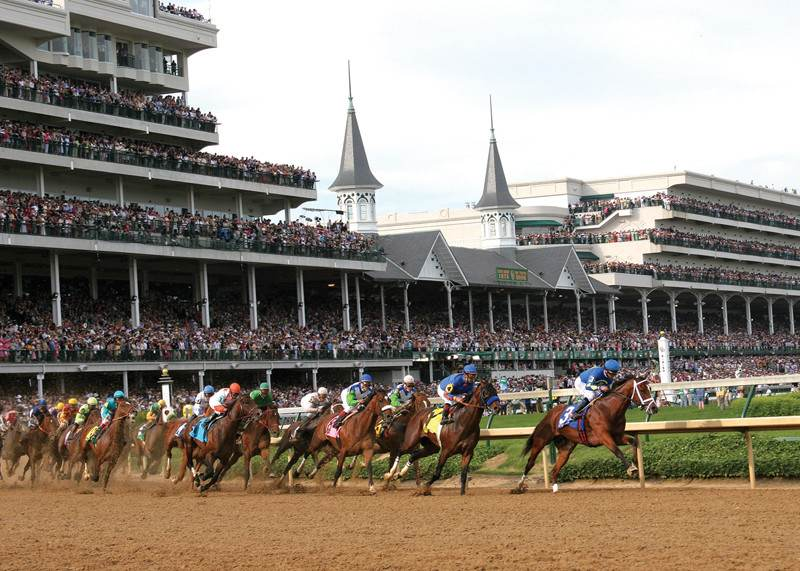
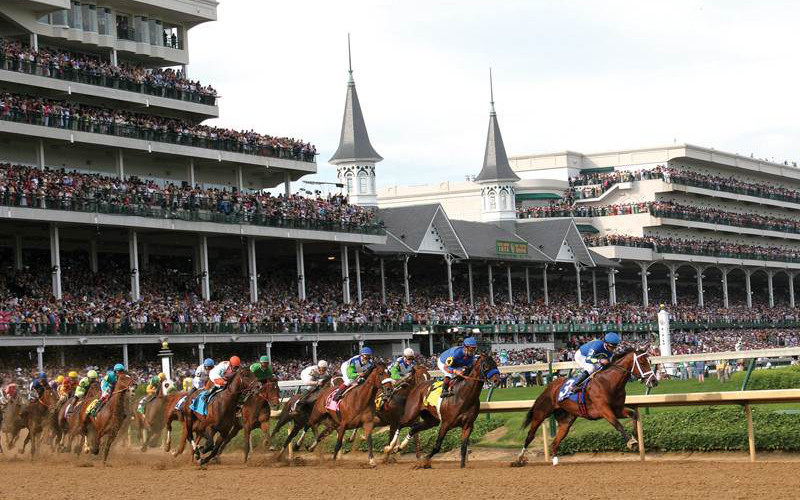
Image carousal update
Updated the info tab to have an image carousel.

diff --git a/trackgeo/index.html b/trackgeo/index.html
@@ -97,8 +97,9 @@
             </div>
             <div id="collapseTrackBias" class="panel-collapse collapse">
               <div class="panel-body">
-                <p><em>Dirt Bias:</em> The dirt track that tends to favor front-runners and speed horses, especially in 
-                  sprints. The inside posts can be advantageous in route races, but a strong outside runner with early speed can overcome this bias.
+                <p><em>Dirt Bias:</em> The dirt track that tends to favor front-runners and speed horses, especially in
+                  sprints. The inside posts can be advantageous in route races, but a strong outside runner with early
+                  speed can overcome this bias.
                 </p>
               </div>
             </div>
@@ -229,8 +230,37 @@
           Secretariat and Man o' War to modern-day heroes, the track has seen some of the most dramatic and
           unforgettable moments in horse racing. It's a must-see for anyone with even a passing interest in the sport.
         </p>
-        <img src="twinspires_b.jpg" alt="twin_spires">
-        <br><p></p>
+        <br>
+        <div id="myCarousel" class="carousel slide" data-ride="carousel" data-interval="false">
+          <!-- Indicators -->
+          <ol class="carousel-indicators">
+            <li data-target="#myCarousel" data-slide-to="0" class="active"></li>
+            <li data-target="#myCarousel" data-slide-to="1"></li>
+          </ol>
+
+          <!-- Wrapper for slides -->
+          <div class="carousel-inner">
+            <div class="item active">
+              <img src="ucdd-wp.jpeg" alt="Los Angeles" style="width:100%;">
+            </div>
+
+            <div class="item">
+              <img src="twinspires_b.jpg" alt="Chicago" style="width:100%;">
+            </div>
+
+          </div>
+
+          <!-- Left and right controls -->
+          <a class="left carousel-control" href="#myCarousel" data-slide="prev">
+            <span class="glyphicon glyphicon-chevron-left"></span>
+            <span class="sr-only">Previous</span>
+          </a>
+          <a class="right carousel-control" href="#myCarousel" data-slide="next">
+            <span class="glyphicon glyphicon-chevron-right"></span>
+            <span class="sr-only">Next</span>
+          </a>
+        </div>
+        <p></p>
       </div>
       <div id="trackgeo" class="tab-pane fade">
         <p></p>
